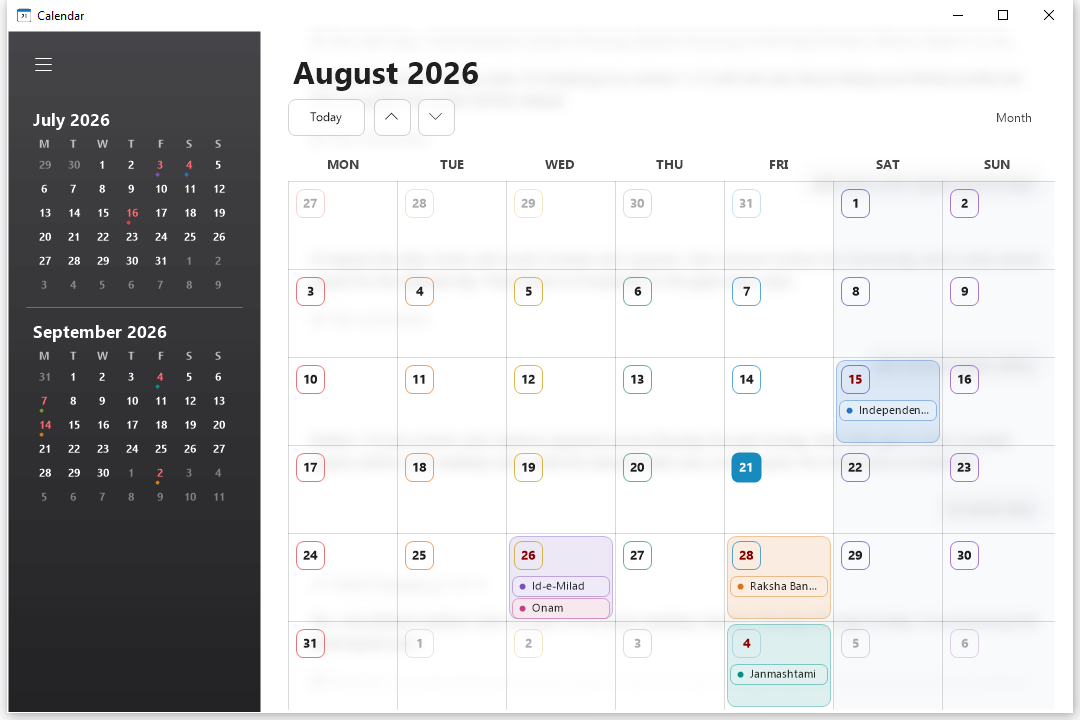
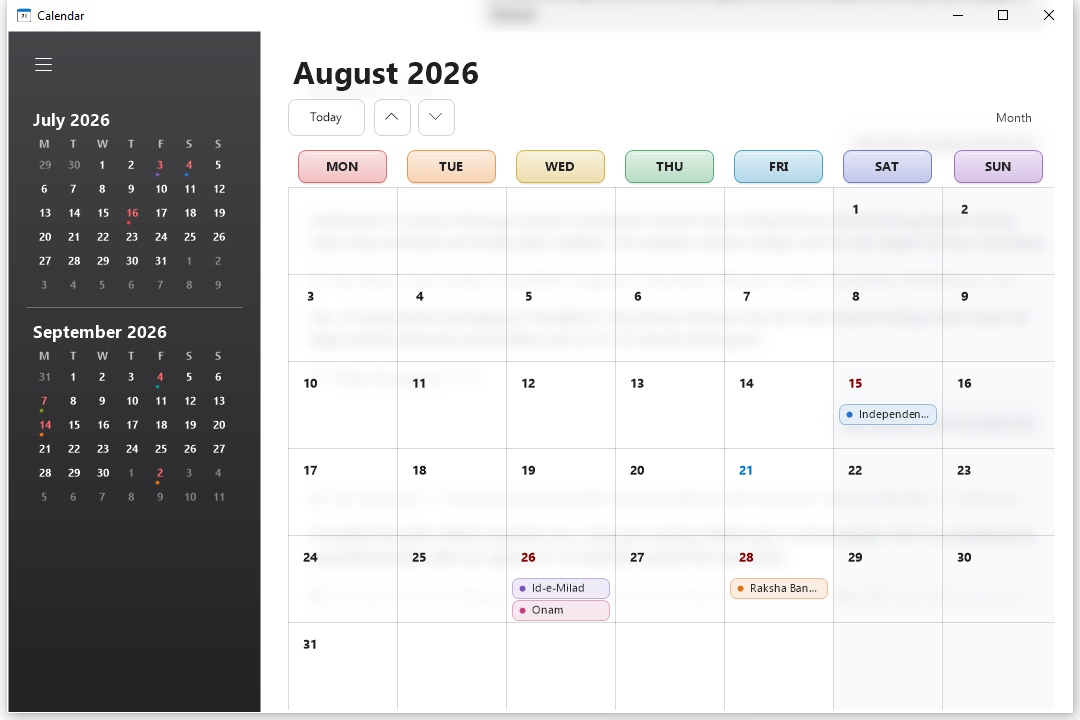
Release Simple Calendar 1.1.5

diff --git a/Program.cs b/Program.cs
@@ -697,13 +697,35 @@ namespace SimpleCalendar
             int headerTop = 119;
             int available = Width - x - 18;
             int colW = available / 7;
-            int rowH = Math.Max(48, (Height - headerTop - 31) / 6);
+            int rowH = Math.Max(48, (Height - headerTop - 37) / 6);
             using (Font f = UiHeavyFont(9.75F))
-            using (SolidBrush b = new SolidBrush(secondary))
                 for (int c = 0; c < 7; c++)
-                    DrawCentered(g, week[c], f, b, new Rectangle(x + c * colW, headerTop, colW, 28));
+                {
+                    int headingWidth = c == 6 ? available - c * colW : colW;
+                    int tileWidth = Math.Min(88, Math.Max(50, headingWidth - 12));
+                    Rectangle headingRect = new Rectangle(
+                        x + c * colW + (headingWidth - tileWidth) / 2, headerTop, tileWidth, 32);
+                    Color weekdayColor = WeekdayColor(c);
+                    Color weekdayTop = Mix(weekdayColor, Color.White, .86F);
+                    Color weekdayBottom = Mix(weekdayColor, Color.White, .67F);
+                    Color weekdayBorder = Mix(weekdayColor, Color.White, .22F);
+                    Rectangle shadowRect = headingRect;
+                    shadowRect.Offset(0, 2);
+                    using (SolidBrush b = new SolidBrush(Color.FromArgb(24, 0, 0, 0)))
+                        g.FillRoundedRectangle(b, shadowRect, 8);
+                    using (LinearGradientBrush b = new LinearGradientBrush(
+                        headingRect, weekdayTop, weekdayBottom, LinearGradientMode.Vertical))
+                        g.FillRoundedRectangle(b, headingRect, 7);
+                    using (Pen p = new Pen(weekdayBorder, 1.15F))
+                        g.DrawRoundedRectangle(p, headingRect, 7);
+                    using (Pen p = new Pen(Color.FromArgb(145, 255, 255, 255), 1F))
+                        g.DrawLine(p, headingRect.Left + 8, headingRect.Top + 3,
+                            headingRect.Right - 8, headingRect.Top + 3);
+                    using (SolidBrush b = new SolidBrush(Color.FromArgb(35, 35, 38)))
+                        DrawCentered(g, week[c], f, b, headingRect);
+                }
 
-            int gridTop = headerTop + 31;
+            int gridTop = headerTop + 37;
             DateTime first = FirstGridDate(shownMonth);
             using (Font numberFont = UiHeavyFont(10F))
             using (Font todayFont = UiHeavyFont(10F))
@@ -715,19 +737,20 @@ namespace SimpleCalendar
                 {
                     DateTime date = first.AddDays(r * 7 + c);
                     Rectangle rect = new Rectangle(x + c * colW, gridTop + r * rowH, c == 6 ? available - c * colW : colW, rowH);
-                    dayRects[r, c] = rect;
-                    IList<HolidayInfo> holidays = HolidayCalendar.Get(date);
+                    bool isCurrentMonth = date.Year == shownMonth.Year && date.Month == shownMonth.Month;
+                    dayRects[r, c] = isCurrentMonth ? rect : Rectangle.Empty;
                     if (c >= 5)
                         using (SolidBrush b = new SolidBrush(weekendSurface)) g.FillRectangle(b, rect);
-                    if (holidays.Count > 0)
+                    if (!isCurrentMonth)
                     {
-                        Color holidayColor = HolidayColor(holidays[0]);
-                        Rectangle holidayBox = Rectangle.Inflate(rect, -3, -3);
-                        using (SolidBrush b = new SolidBrush(Color.FromArgb(isDarkTheme ? 40 : 34, holidayColor)))
-                            g.FillRoundedRectangle(b, holidayBox, 8);
-                        using (Pen p = new Pen(Color.FromArgb(isDarkTheme ? 116 : 98, holidayColor), 1.2F))
-                            g.DrawRoundedRectangle(p, holidayBox, 8);
+                        using (Pen p = new Pen(grid))
+                        {
+                            g.DrawLine(p, rect.Left, rect.Top, rect.Right, rect.Top);
+                            g.DrawLine(p, rect.Left, rect.Top, rect.Left, rect.Bottom);
+                        }
+                        continue;
                     }
+                    IList<HolidayInfo> holidays = HolidayCalendar.Get(date);
                     if (r == hoverRow && c == hoverCol)
                         using (SolidBrush b = new SolidBrush(hover))
                             g.FillRoundedRectangle(b, Rectangle.Inflate(rect, -3, -3), 7);
@@ -741,21 +764,9 @@ namespace SimpleCalendar
                     bool isSelected = date.Date == selectedDate.Date;
                     Rectangle numberRect = new Rectangle(rect.Left + 7, rect.Top + 7, 30, 30);
                     Color holidayDateColor = isDarkTheme ? Color.FromArgb(255, 102, 110) : Color.FromArgb(138, 0, 0);
-                    Color dayFrame = DayFrameColor(c);
-                    if (isSelected)
-                    {
-                        using (SolidBrush b = new SolidBrush(dayFrame))
-                            g.FillRoundedRectangle(b, numberRect, 7);
-                    }
-                    else
-                    {
-                        int outlineAlpha = date.Month == shownMonth.Month ? 186 : 62;
-                        Color outline = Color.FromArgb(outlineAlpha, dayFrame);
-                        using (Pen p = new Pen(outline, isToday ? 2F : 1.25F))
-                            g.DrawRoundedRectangle(p, Rectangle.Inflate(numberRect, -1, -1), 7);
-                    }
-                    Color dc = date.Month == shownMonth.Month ? text : Color.FromArgb(115, secondary);
-                    Color numberColor = isSelected ? accentText : holidays.Count > 0 ? holidayDateColor : dc;
+                    Color dc = text;
+                    Color numberColor = holidays.Count > 0 ? holidayDateColor
+                        : isSelected || isToday ? accent : dc;
                     Font dateFont = holidays.Count > 0 ? holidayDateFont : isToday ? todayFont : numberFont;
                     using (SolidBrush b = new SolidBrush(numberColor))
                         DrawCentered(g, date.Day.ToString(), dateFont, b, numberRect);
@@ -1029,7 +1040,7 @@ namespace SimpleCalendar
             }
         }
 
-        private static Color DayFrameColor(int column)
+        private static Color WeekdayColor(int column)
         {
             Color[] rainbow =
             {

diff --git a/README.md b/README.md
@@ -9,7 +9,8 @@ A lightweight, offline Windows 10 calendar with a real glass background, a compa
 - Frosted white glass that reveals and blurs the apps behind the calendar.
 - Glossy black sidebar with the previous and next month at a glance.
 - Ebrima Bold date numbers and weekday headings for clear reading over glass.
-- Seven rainbow colors outline the seven weekday columns with clean rounded squares.
+- Seven light rainbow colors fill the Monday-through-Sunday heading tiles; date numbers remain clean and unboxed.
+- The large month view shows only dates belonging to the selected month.
 - Bold blood-red holiday and festival dates.
 - Different accent colors for holiday and festival cards, including multi-event days.
 - India national holidays, selected 2026 Hindu/regional festivals, and U.S. federal holidays (including observed weekdays).
@@ -25,7 +26,7 @@ A lightweight, offline Windows 10 calendar with a real glass background, a compa
 
 ## Download and run
 
-Open the repository's **Releases** page and download the files for version 1.1.3.
+Open the repository's **Releases** page and download the files for version 1.1.5.
 
 ### Portable version
 

diff --git a/CHANGELOG.md b/CHANGELOG.md
@@ -1,8 +1,22 @@
 # Changelog
 
+## 1.1.5 - 2026-08-21
+
+- Removed the large colored rounded box around holiday and festival cells.
+- Kept compact multicolor holiday-name chips and bold blood-red holiday dates.
+- Preserved the weekday rainbow badges, current-month-only grid, and live tile.
+
+## 1.1.4 - 2026-08-21
+
+- Moved the seven rainbow colors from date numbers to compact Monday-through-Sunday heading badges.
+- Added light pastel gradient fills, restrained borders, and a subtle highlight to the weekday badges.
+- Removed colored squares and outlines from ordinary date numbers.
+- The large month grid now hides dates from the previous and next months.
+- Kept multicolor holiday/festival cell highlighting and the live tile unchanged.
+
 ## 1.1.3 - 2026-08-21
 
-- Added seven rainbow-colored rounded-square outlines across Monday through Sunday.
+- Added seven rainbow-colored date-column outlines.
 - Switched date numbers and weekday headings to Ebrima Bold for stronger contrast.
 - Removed the experimental frosted date-number backgrounds.
 - Added an About option to the hamburger menu.
